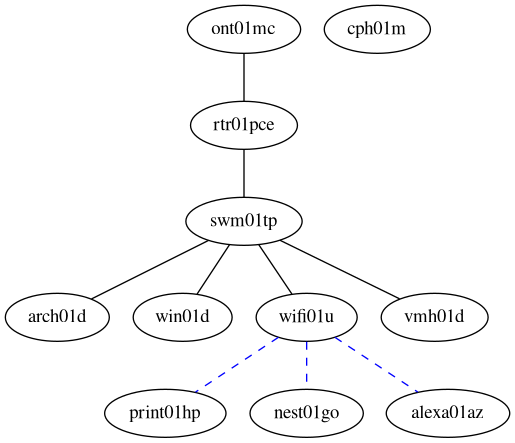
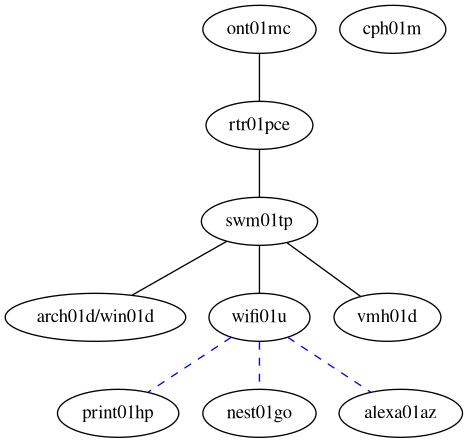
Added documentation

diff --git a/vars/README.md b/vars/README.md
@@ -8,12 +8,12 @@
 | --- | --- |--- |
 | `rtr01pce` | `10.1` | PC Engines Router (apu 3c4) |
 | `msw01tp` | `10.2` | TP Link T2500G-10TS |
-| `wifi01u` | DHCP | Unifi Wifi AC LR |
+| `wifi01u` | `10.3` | Unifi Wifi AC LR |
 | `vmh01d` | `10.5`  | VM Host |
-| `arch01d`, `win01d` | DHCP | Desktop |
-| `print01hp` | DHCP | HP Officejet 9015 |
-| `nest01go` | DHCP | Nest Thermostat |
-| `alexa01az` | DHCP | Alexa |
+| `arch01d`, `win01d` | `10.10` | Desktop |
+| `print01hp` | `10.0.2.20` | HP Officejet 9015 |
+| `nest01go` | `10.0.2.22` | Nest Thermostat |
+| `alexa01az` | `10.0.2.21` | Alexa |
 
 ## Configurations
 

diff --git a/nix-template/README.md b/nix-template/README.md
@@ -1,0 +1,26 @@
+# nix-template
+
+Here you will find generic templates that can be imported in NixOS configs.
+
+## base-system.nix
+
+Includes everything needed for a base system.
+
+## unifi.nix
+
+Includes the Unifi WiFi controller software (firewall rules intentionally not included).
+
+Example firewall rules:
+
+```nix
+networking.firewall.interfaces.br1.allowedTCPPorts = [
+  8080 8443 8880 8843 6789 27117
+];
+networking.firewall.interfaces.br1.allowedUDPPorts = [
+  3478 5514 10001 1900
+];
+```
+
+## users.nix
+
+Includes SSH keys and user information and permissions.
